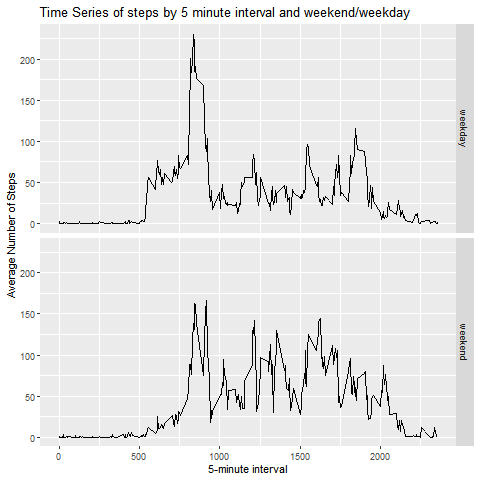
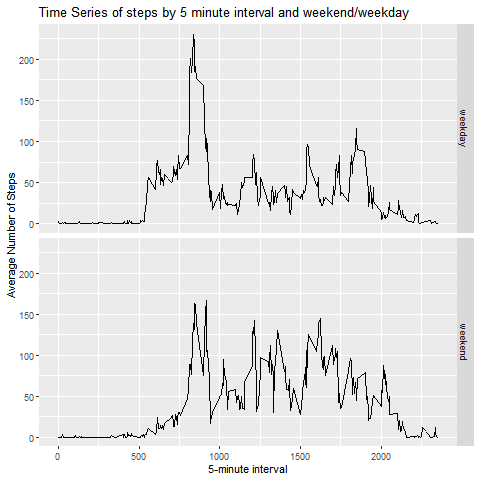
Updating project

diff --git a/PA1_template.html b/PA1_template.html
@@ -377,8 +377,16 @@ activity &lt;- read.table(&quot;activity.csv&quot;, sep = &quot;,&quot;,header =
 </div>
 <div id="what-is-mean-total-number-of-steps-taken-per-day" class="section level2">
 <h2>What is mean total number of steps taken per day?</h2>
-<pre class="r"><code>library(dplyr)
-#Ignoring missing values
+<pre class="r"><code>library(dplyr)</code></pre>
+<pre><code>## 
+## Attaching package: &#39;dplyr&#39;</code></pre>
+<pre><code>## The following objects are masked from &#39;package:stats&#39;:
+## 
+##     filter, lag</code></pre>
+<pre><code>## The following objects are masked from &#39;package:base&#39;:
+## 
+##     intersect, setdiff, setequal, union</code></pre>
+<pre class="r"><code>#Ignoring missing values
 activity_na &lt;- activity[complete.cases(activity), ]
 #1. Calculate the total number of steps taken per day
 totalsteps_perday &lt;- activity_na %&gt;% group_by(date) %&gt;% summarize(totalsteps=sum(steps))</code></pre>
@@ -387,9 +395,9 @@ totalsteps_perday &lt;- activity_na %&gt;% group_by(date) %&gt;% summarize(total
 with(totalsteps_perday, hist(totalsteps_perday$totalsteps, xlab = &quot;Total Steps Per Day&quot;, col = &quot;red&quot;, main = &quot;Histogram of the total number of steps taken each day&quot;))</code></pre>
[1 lines of base64/hex data omitted]
 <pre class="r"><code>dev.copy(png, file = &quot;figures/plot_totalsteps_perday.png&quot;)</code></pre>
-<p>png 4</p>
+<p>png 3</p>
 <pre class="r"><code>dev.off()</code></pre>
-<p>pdf 2</p>
+<p>png 2</p>
 <pre class="r"><code>#3. Calculate and report the mean and median of the total number of steps taken per day
 mean(totalsteps_perday$totalsteps)</code></pre>
 <p>[1] 10766.19</p>
@@ -409,9 +417,9 @@ steps_per_interval &lt;- activity_na %&gt;% group_by(interval) %&gt;% summarise(
                              main = &quot;Time Series of steps by 5 minute interval&quot;))</code></pre>
[1 lines of base64/hex data omitted]
 <pre class="r"><code>dev.copy(png, file = &quot;figures/plot_steps_per_interval.png&quot;)</code></pre>
-<p>png 4</p>
+<p>png 3</p>
 <pre class="r"><code>dev.off()</code></pre>
-<p>pdf 2</p>
+<p>png 2</p>
 <pre class="r"><code>#2. Which 5-minute interval, on average across all the days in the dataset, contains the maximum number of steps?
 #steps_per_interval[which.max(steps_per_interval$avgsteps),]
 print(paste(&quot;Interval: &quot;, steps_per_interval[which.max(steps_per_interval$avgsteps),][1]))</code></pre>
@@ -442,9 +450,9 @@ filled_totalsteps_perday &lt;- filled_activity %&gt;% group_by(date) %&gt;% summ
           main = &quot;Histogram of the total number of steps taken each day&quot;))</code></pre>
[1 lines of base64/hex data omitted]
 <pre class="r"><code>dev.copy(png, file = &quot;figures/filled_totalsteps_perday.png&quot;)</code></pre>
-<p>png 4</p>
+<p>png 3</p>
 <pre class="r"><code>dev.off()</code></pre>
-<p>pdf 2</p>
+<p>png 2</p>
 <pre class="r"><code>mean(filled_totalsteps_perday$totalsteps)</code></pre>
 <p>[1] 10766.19</p>
 <pre class="r"><code>median(filled_totalsteps_perday$totalsteps)</code></pre>
@@ -469,9 +477,9 @@ steps_perweekday &lt;- filled_activity %&gt;% group_by(interval,wDay) %&gt;% sum
                 facets = wDay ~ .)</code></pre>
[1 lines of base64/hex data omitted]
 <pre class="r"><code>dev.copy(png, file = &quot;figures/steps_perweekday.png&quot;)</code></pre>
-<p>png 4</p>
+<p>png 3</p>
 <pre class="r"><code>dev.off()</code></pre>
-<p>pdf 2</p>
+<p>png 2</p>
 </div>
 
 

diff --git a/PA1_template.md b/PA1_template.md
@@ -18,6 +18,26 @@ activity <- read.table("activity.csv", sep = ",",header = TRUE)
 
 ```r
 library(dplyr)
+```
+
+```
+## 
+## Attaching package: 'dplyr'
+```
+
+```
+## The following objects are masked from 'package:stats':
+## 
+##     filter, lag
+```
+
+```
+## The following objects are masked from 'package:base':
+## 
+##     intersect, setdiff, setequal, union
+```
+
+```r
 #Ignoring missing values
 activity_na <- activity[complete.cases(activity), ]
 #1. Calculate the total number of steps taken per day
@@ -40,13 +60,13 @@ dev.copy(png, file = "figures/plot_totalsteps_perday.png")
 ```
 
 png 
-  4 
+  3 
 
 ```r
 dev.off()
 ```
 
-pdf 
+png 
   2 
 
 ```r
@@ -89,13 +109,13 @@ dev.copy(png, file = "figures/plot_steps_per_interval.png")
 ```
 
 png 
-  4 
+  3 
 
 ```r
 dev.off()
 ```
 
-pdf 
+png 
   2 
 
 ```r
@@ -153,13 +173,13 @@ dev.copy(png, file = "figures/filled_totalsteps_perday.png")
 ```
 
 png 
-  4 
+  3 
 
 ```r
 dev.off()
 ```
 
-pdf 
+png 
   2 
 
 ```r
@@ -211,11 +231,11 @@ dev.copy(png, file = "figures/steps_perweekday.png")
 ```
 
 png 
-  4 
+  3 
 
 ```r
 dev.off()
 ```
 
-pdf 
+png 
   2 
